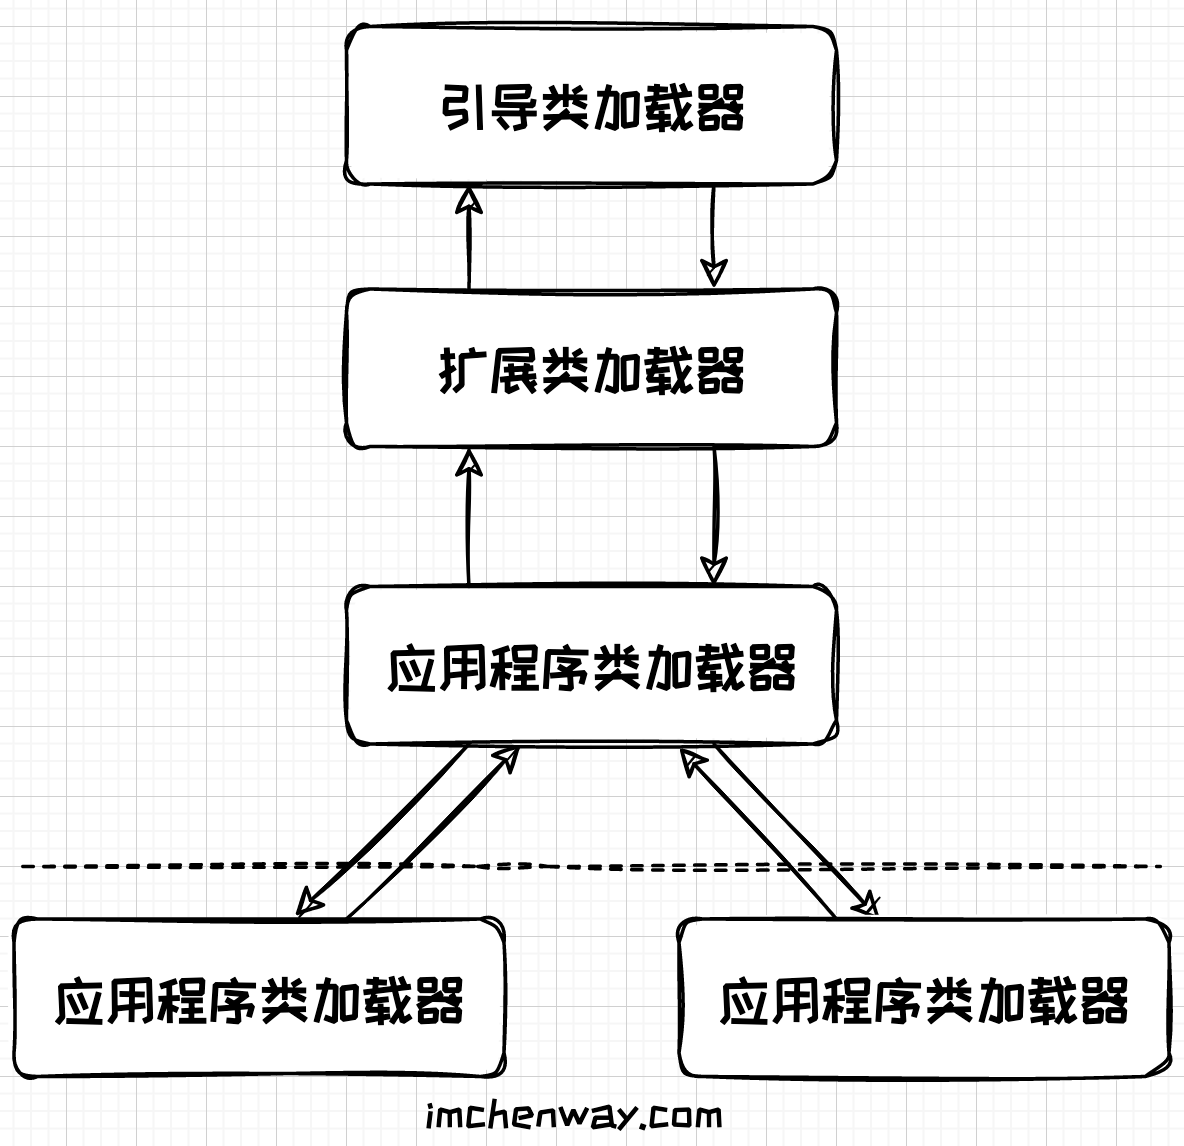
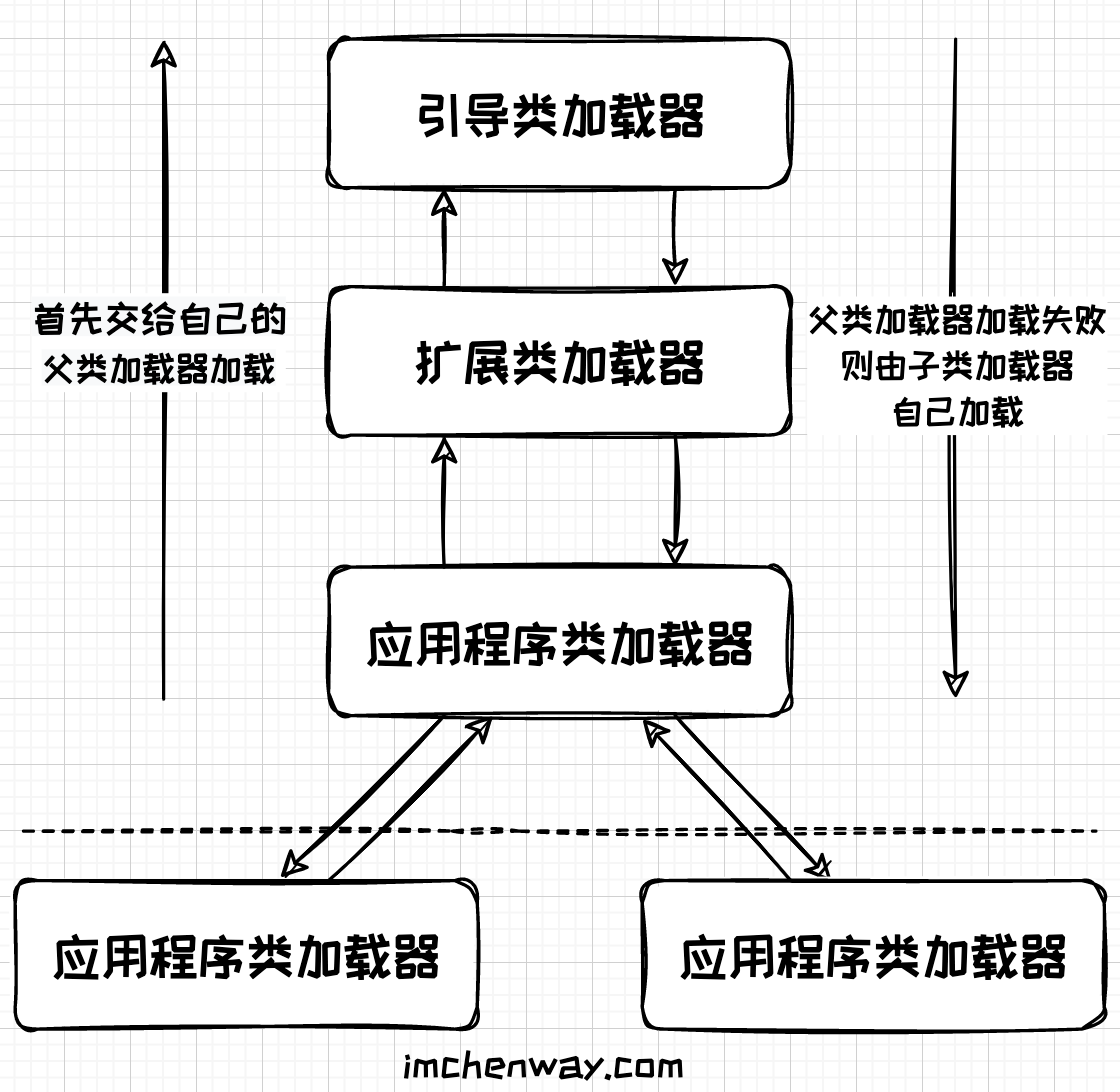
Back up my imchenway.com blog

diff --git a/source/_posts/JVM-类加载器与双亲委派模型.md b/source/_posts/JVM-类加载器与双亲委派模型.md
@@ -1,5 +1,5 @@
 ---
-title: JVM类加载器与双亲委派模型
+title: JVM类加载器与双亲委派模型（JDK8）
 date: 2021-07-02
 tags: ['#JVM']
 ---
@@ -55,6 +55,9 @@ public class ClassLoaderTest {
         Object obj = classLoader.loadClass("com.imchenway.classload.ClassLoaderTest").newInstance();
         System.out.println(obj.getClass());
         System.out.println(obj instanceof com.imchenway.classload.ClassLoaderTest);
+
+        System.out.println("ClassLoaderTest classLoader: " + ClassLoaderTest.class.getClassLoader().toString());
+        System.out.println("obj classLoader: " + obj.getClass().getClassLoader().toString());
     }
 }
 ```
@@ -62,7 +65,10 @@ public class ClassLoaderTest {
 ```
 class com.imchenway.classload.ClassLoaderTest
 false
+ClassLoaderTest classLoader: jdk.internal.loader.ClassLoaders$AppClassLoader@55054057
+obj classLoader: com.imchenway.classload.ClassLoaderTest$1@6ff3c5b5
 ```
+由此可以看到，`ClassLoaderTest`在启动时由`jdk.internal.loader.ClassLoaders$AppClassLoader@55054057`所加载，而`obj`由`com.imchenway.classload.ClassLoaderTest$1@6ff3c5b5`所加载，所以`System.out.println(obj instanceof com.imchenway.classload.ClassLoaderTest);`这一行输出的结果为`false`，因为类的唯一性由是否是同一个类加载器和是否同一个字节码文件同时决定的。
 
 ## 类加载器是如何去加载类的？
 ### 双亲委派模型
@@ -74,9 +80,20 @@ false
   - 除了以上三种类加载器外，我们还可以自定义类加载器。（TODO 如何使用自定义类加载器实现类加载？）
 
 ### 双亲委派模型工作过程
-<img src="/public/images/posts/双亲委派模型.png" width="400px" />
+<img src="/images/posts/双亲委派模型.png" width="400px" />
 
+当一个类加载器收到了类加载的请求时，首先是交给自己的父类加载器去加载，最终都会到达顶层的引导类加载器，当父类加载器反馈无法完成这个加载请求时，子加载器尝试自己去加载。
+
+### 为什么需要双亲委派？
+在类与类加载器的关系中我们证明了一个类的唯一性由加载这个类的类加载器和类本身所决定，如果没有双亲委派机制存在的话，试想如果我们在自定义类加载器中定义了`java.lang.Object`这个类并放在classpath中的话，那么程序中将出现两个Object根类，类之间的比较将变得毫无意义。
+
+当然，实际上自定义包名`java`开头的类将无法加载成功
+<img src="/public/images/posts/preDefineClass.png" width="400px">
+
+
+### 破坏双亲委派模型
 
 # 本文总结
+它的好处可以用一句话总结，即防止内存中出现多份同样的字节码。
 
 # 相关问题

diff --git a/source/_posts/JVM-类加载机制.md b/source/_posts/JVM-类加载机制.md
@@ -18,10 +18,10 @@ tags: ['#JVM']
 >   - JVM(Java Virtual Machine),JVM可以理解为是一个运行在操作系统之上的虚拟电脑，当我们通过`javac`将`*.java`编译成JVM可识别`*.class`字节码文件后，再执行`java`，此时JVM会将`*.class`字节码文件解释成当前操作系统平台可识别的机器码去执行。这样的话就实现了"Write once, run anywhere."。
 > - 整体流程如下所示
 > 
-> <img src="/public/images/posts/javaCli.png" width="800px"/>
+> <img src="/images/posts/javaCli.png" width="800px"/>
 
 # JVM类加载的过程
-<img src="/public/images/posts/JVMClassLoader.png" width="600px" />
+<img src="/images/posts/JVMClassLoader.png" width="600px" />
 
 ### 加载阶段：
 1. 通过类的全限定名来读取class字节码文件的二进制流
